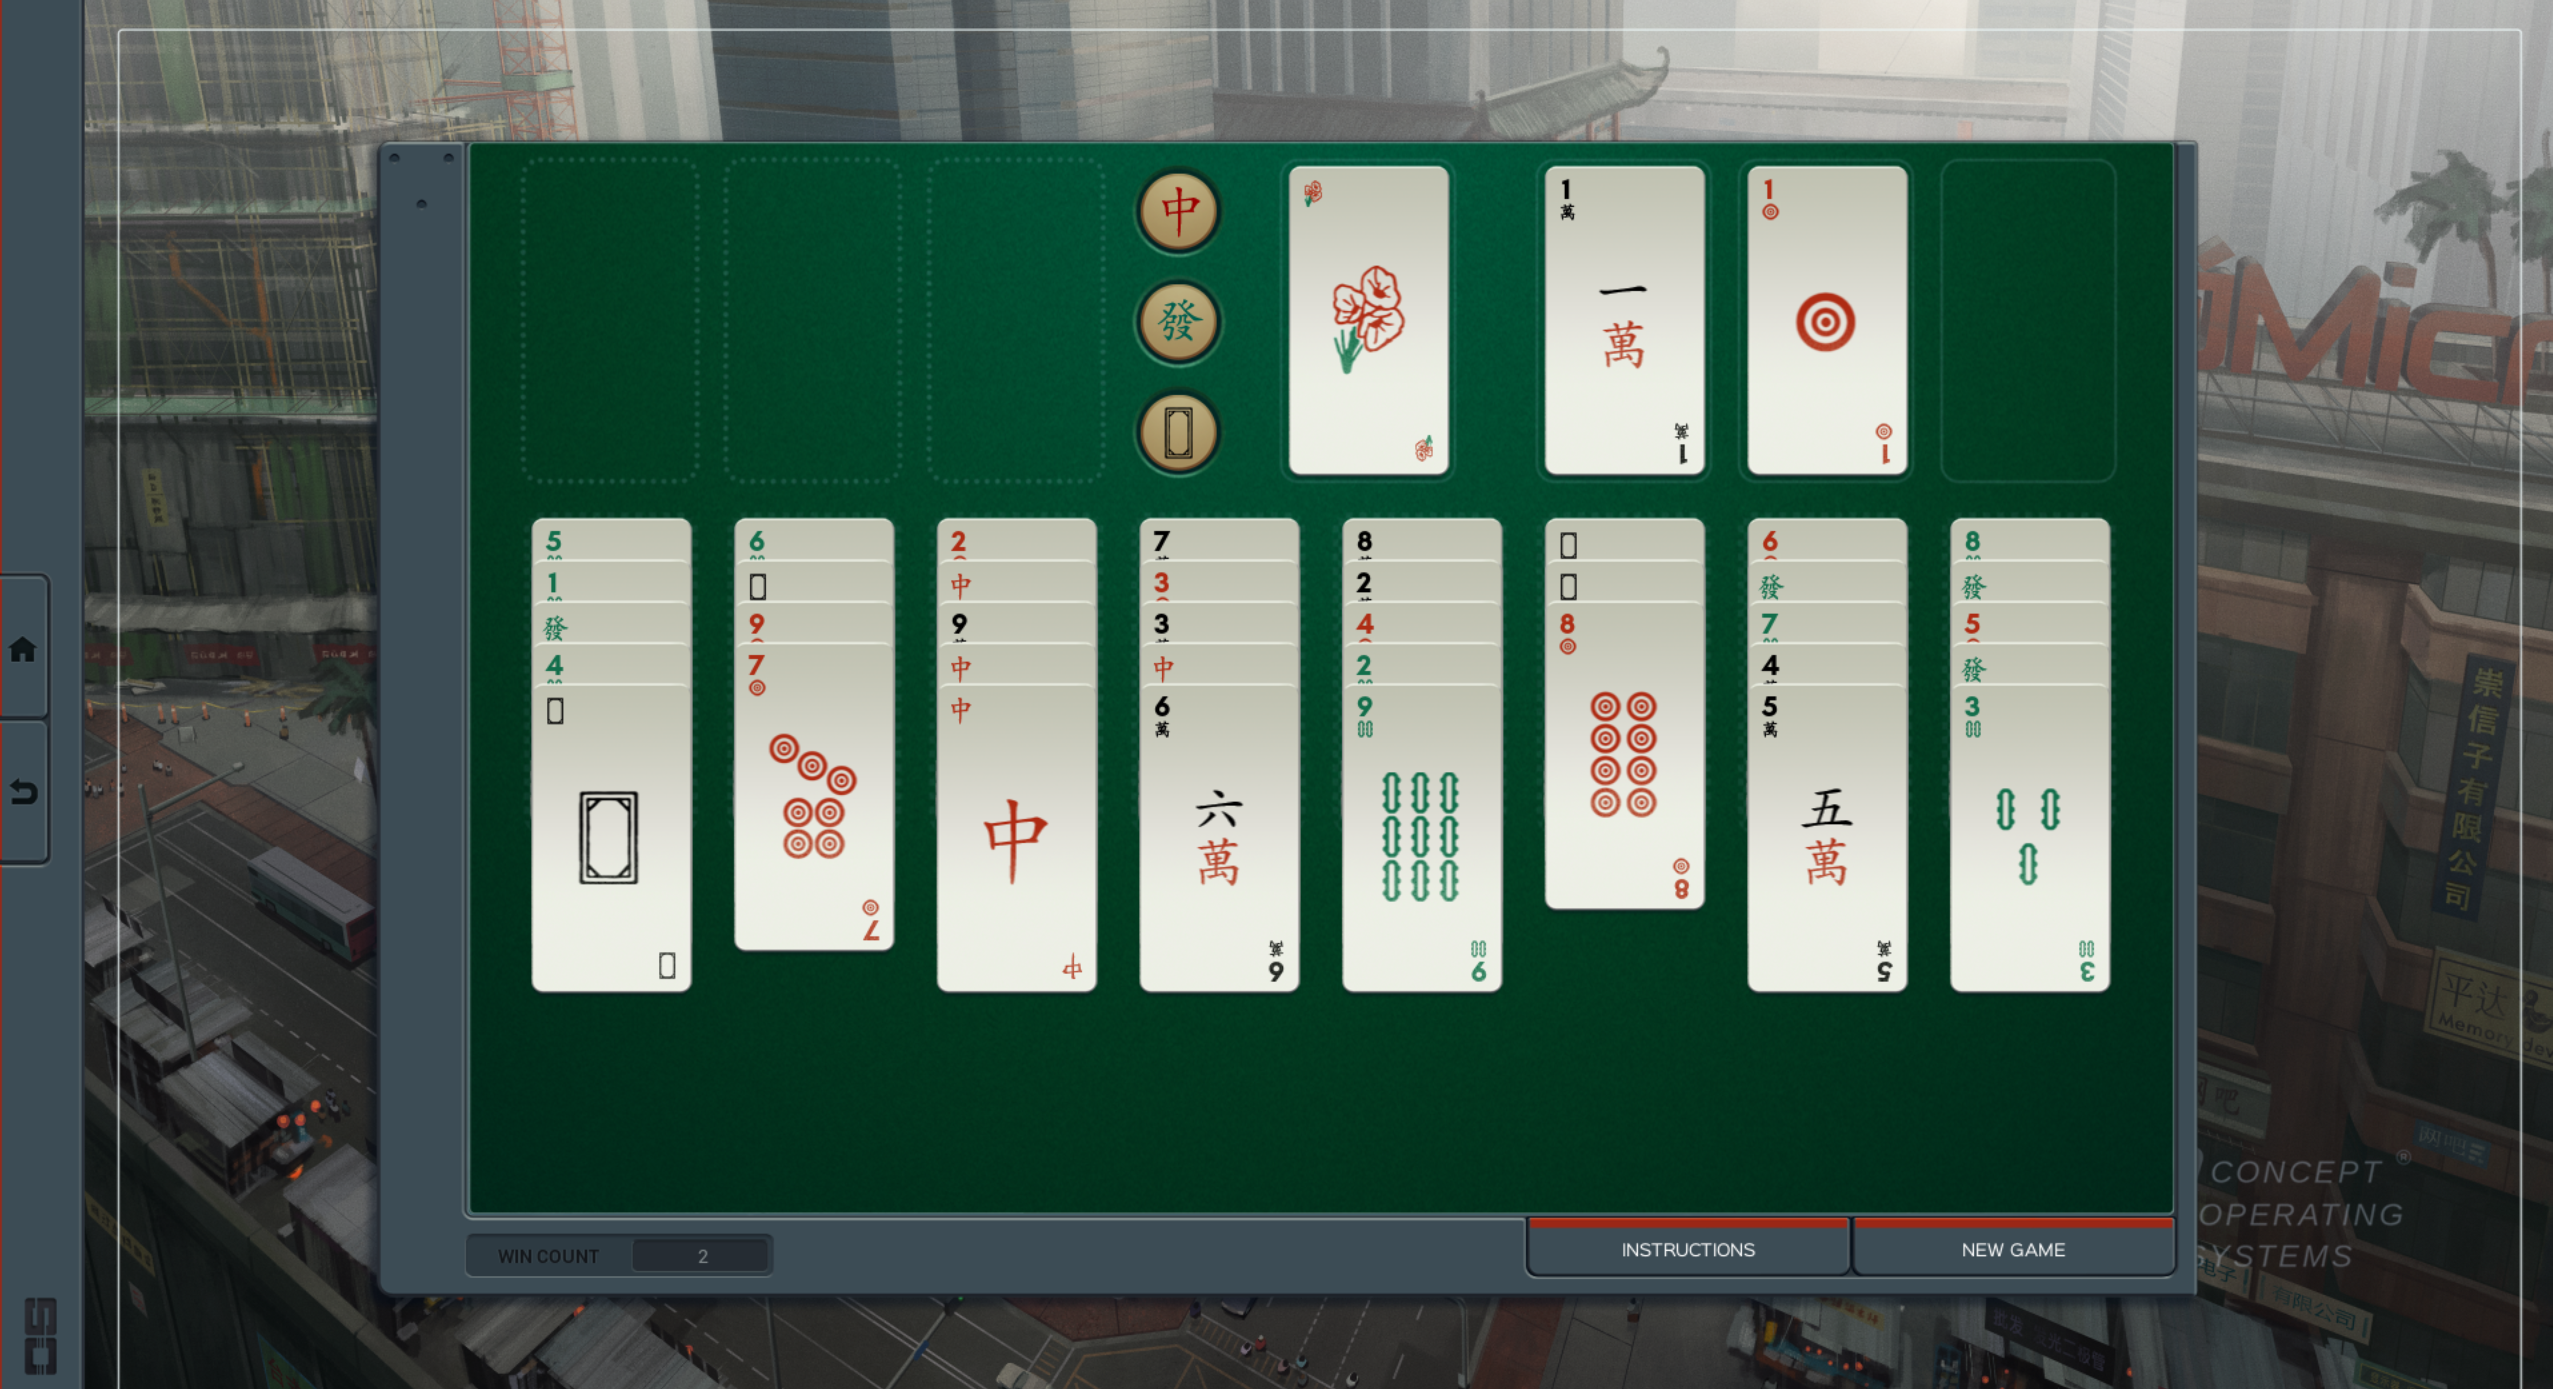
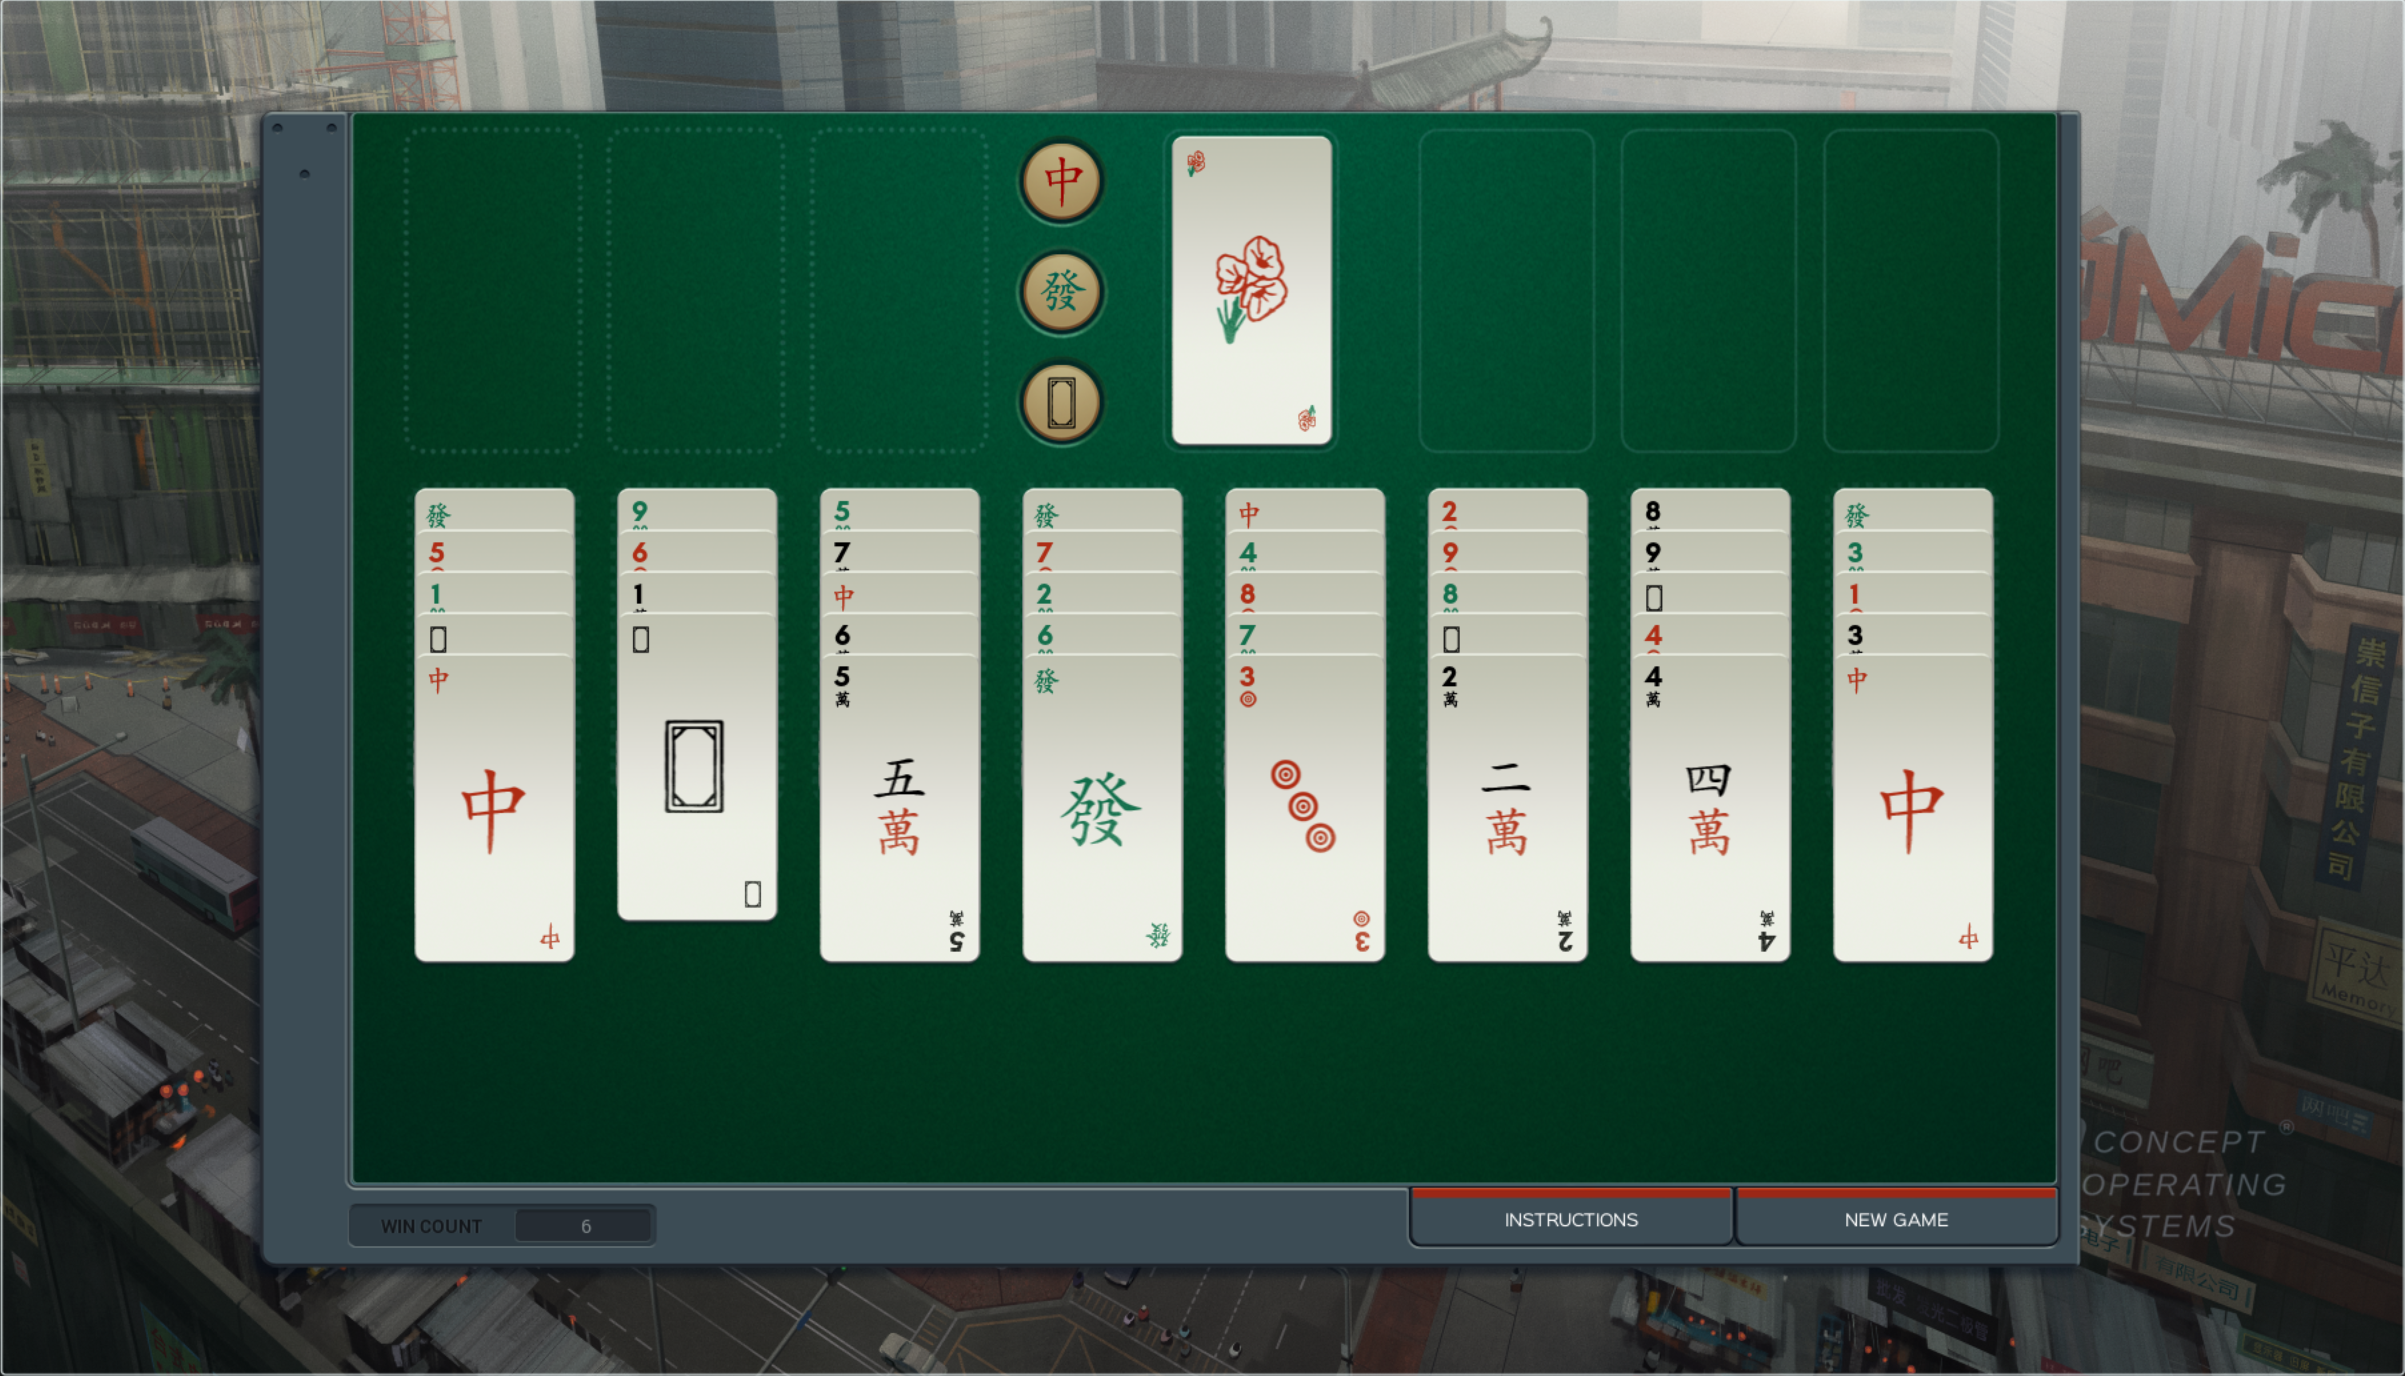
Update reference and debug image using game resolution of 1920x1080

diff --git a/shenzhen_solitaire/vision.py b/shenzhen_solitaire/vision.py
@@ -108,15 +108,16 @@ class _Reading:
 
 # The reference image contains every card face. These labels describe its
 # tableau from bottom to top and are used only to build visual templates.
+
 _REFERENCE_COLUMNS = (
-    ("B5", "B1", "GD", "B4", "WD"),
-    ("B6", "WD", "D9", "D7"),
-    ("D2", "RD", "C9", "RD", "RD"),
-    ("C7", "D3", "C3", "RD", "C6"),
-    ("C8", "C2", "D4", "B2", "B9"),
-    ("WD", "WD", "D8"),
-    ("D6", "GD", "B7", "C4", "C5"),
-    ("B8", "GD", "D5", "GD", "B3"),
+    ("GD", "D5", "B1", "WD", "RD"),
+    ("B9", "D6", "C1", "WD"),
+    ("B5", "C7", "RD", "C6", "C5"),
+    ("GD", "D7", "B2", "B6", "GD"),
+    ("RD", "B4", "D8", "B7", "D3"),
+    ("D2", "D9", "B8", "WD", "C2"),
+    ("C8", "C9", "WD", "D4", "C4"),
+    ("GD", "B3", "D1", "C3", "RD"),
 )
 
 # Horizontal measurements are fractions of the detected green playfield's
@@ -159,11 +160,16 @@ _FEATURE_SIZE = (64, 48)
 
 # Below this a corner crop carries too few source pixels to separate ranks
 # whose glyphs differ by one stroke. Downscaling the fixture reads perfectly
-# at a 64.5 pixel card and wider, but between 61.3 and 48 it misreads
-# erratically -- and not every misread there trips the margin gate, so the
-# size is checked directly rather than left to be caught downstream. A card
-# this wide needs roughly an 800-pixel window, well under any real capture.
-_MINIMUM_CARD_WIDTH = 64.0
+# at a 65.7 pixel card and wider; from there down to 62.5 it refuses more
+# often than it reads, and at 62.5 it misreads a D5 as D8 convincingly enough
+# to clear the margin gate. That last case is why the size is checked directly
+# rather than left to be caught downstream. A card this wide needs a playfield
+# around 700 pixels across, well under any real capture.
+#
+# The exact figure is a property of the templates, not of the layout, so it
+# moves when the calibration image does: it was 64.0 for the reference this one
+# replaced. Re-measure it against the fixture when swapping references.
+_MINIMUM_CARD_WIDTH = 66.0
 
 # A corner crop is roughly 51x37 source pixels scaled to 64x48, so one feature
 # pixel is about 0.8 source pixels. A radius of 2 therefore only tolerated
@@ -178,11 +184,11 @@ _MAX_CLASSIFICATION_SCORE = 0.18
 
 # How far the best match must beat the runner-up. Across every resolution and
 # felt aspect ratio the size guard admits, the tightest margin on a correct
-# read is 0.0013, at the smallest accepted card; it is 0.0078 at the reference
-# scale. This leaves headroom below that rather than tracking it closely,
-# because a false rejection costs a usable screenshot. It is a diagnostic, not
-# a guarantee: when it fires the report names both candidates instead of
-# leaving a misread to surface later as a nonsense deck.
+# read is 0.0013, near the smallest accepted card; it is 0.0090 at the
+# reference scale. This leaves headroom below that rather than tracking it
+# closely, because a false rejection costs a usable screenshot. It is a
+# diagnostic, not a guarantee: when it fires the report names both candidates
+# instead of leaving a misread to surface later as a nonsense deck.
 _MIN_CLASSIFICATION_MARGIN = 0.0005
 
 # Debug labels are measured against the card they annotate, never the image.
@@ -441,27 +447,23 @@ def _build_templates(
             bounds = _corner_bounds(reference, component.x, top, geometry.card_width)
             templates[label].append(_feature(reference, bounds))
 
-    top_templates = (
-        (geometry.flower_left, FLOWER),
-        (geometry.tableau_lefts[5], "C1"),
-        (geometry.tableau_lefts[6], "D1"),
+    # The flower is the one class the tableau cannot supply, since it leaves for
+    # its own slot before the player has a move.
+    flower_component = _near_component(
+        components,
+        geometry,
+        geometry.flower_left,
+        geometry.top_y,
+        top_row=True,
     )
-    for expected_left, label in top_templates:
-        component = _near_component(
-            components,
-            geometry,
-            expected_left,
-            geometry.top_y,
-            top_row=True,
+    if flower_component is None:
+        raise ScreenshotRecognitionError(
+            f"The calibration image is missing the {FLOWER} template"
         )
-        if component is None:
-            raise ScreenshotRecognitionError(
-                f"The calibration image is missing the {label} template"
-            )
-        bounds = _corner_bounds(
-            reference, component.x, component.y, geometry.card_width
-        )
-        templates[label].append(_feature(reference, bounds))
+    bounds = _corner_bounds(
+        reference, flower_component.x, flower_component.y, geometry.card_width
+    )
+    templates[FLOWER].append(_feature(reference, bounds))
 
     expected_class_count = len(SUITS) * MAX_NUMBER_RANK + len(DRAGONS) + 1
     if len(templates) != expected_class_count:

diff --git a/README.md b/README.md
@@ -18,7 +18,7 @@ is that same calibration image read back, so every label can be checked against
 the card underneath it. Each prediction carries its match-distance score and
 the margin by which it beat the runner-up; green boxes cleared both thresholds.
 Scoring its own reference puts every score at 0.000, which leaves the margins
-on show: even an exact match beats its runner-up by only 0.014 to 0.050.
+on show: even an exact match beats its runner-up by only 0.015 to 0.049.
 
 ![OCR debug output with predicted cards and confidence scores](docs/images/shenzhen_debug.png)
 
@@ -81,10 +81,11 @@ window and a 16:10 one read the same board identically even though the felt
 is a different shape in each. The game theme and card artwork do need to match
 the reference image.
 
-Resolution has a floor but no ceiling. Cards must come out at least 64 pixels
-wide, which needs a playfield around 800 pixels across; below that the rank
+Resolution has a floor but no ceiling. Cards must come out at least 66 pixels
+wide, which needs a playfield around 700 pixels across; below that the rank
 glyphs stop separating reliably, so a smaller capture is reported as too small
-rather than guessed at.
+rather than guessed at. The floor is a property of the bundled templates rather
+than of the layout, so replacing the reference image can move it.
 
 ```console
 uv run --extra ocr shenzhen-solitaire path/to/screenshot.png
@@ -133,6 +134,12 @@ The package includes `shenzhen_reference.png`, which is used automatically.
 It contains every card face in a known deal so the recognizer can build visual
 templates for the current game theme.
 
+The deal is captured before the first move, so the flower is the only card that
+has left the tableau: the game auto-plays it to its own slot as the board is
+dealt. That is what makes a fresh deal a complete alphabet. The eight columns
+carry 39 of the 40 cards, which covers all 30 numbers and dragons, and the
+flower slot supplies the thirty-first class.
+
 Supply a different calibration screenshot with `--reference`:
 
 ```console
@@ -142,7 +149,14 @@ uv run --extra ocr shenzhen-solitaire screenshot.png \
 
 A replacement reference must show the same known calibration deal represented
 by `_REFERENCE_COLUMNS` in `shenzhen_solitaire/vision.py`. If the deal differs,
-update that label map to match its tableau from bottom to top.
+update that label map to match its tableau from bottom to top, and capture the
+new deal before moving anything, so that every class is still on the board.
+
+Swapping the reference also re-measures the recognizer against itself, since the
+templates are what the score and margin are computed from. Re-check
+`_MINIMUM_CARD_WIDTH` against `test/fixtures/shenzhen_test.png` afterwards: the
+resolution at which ranks stop separating moves with the templates, and the
+guard is what keeps a too-small capture from being guessed at.
 
 ## Debug images
 
